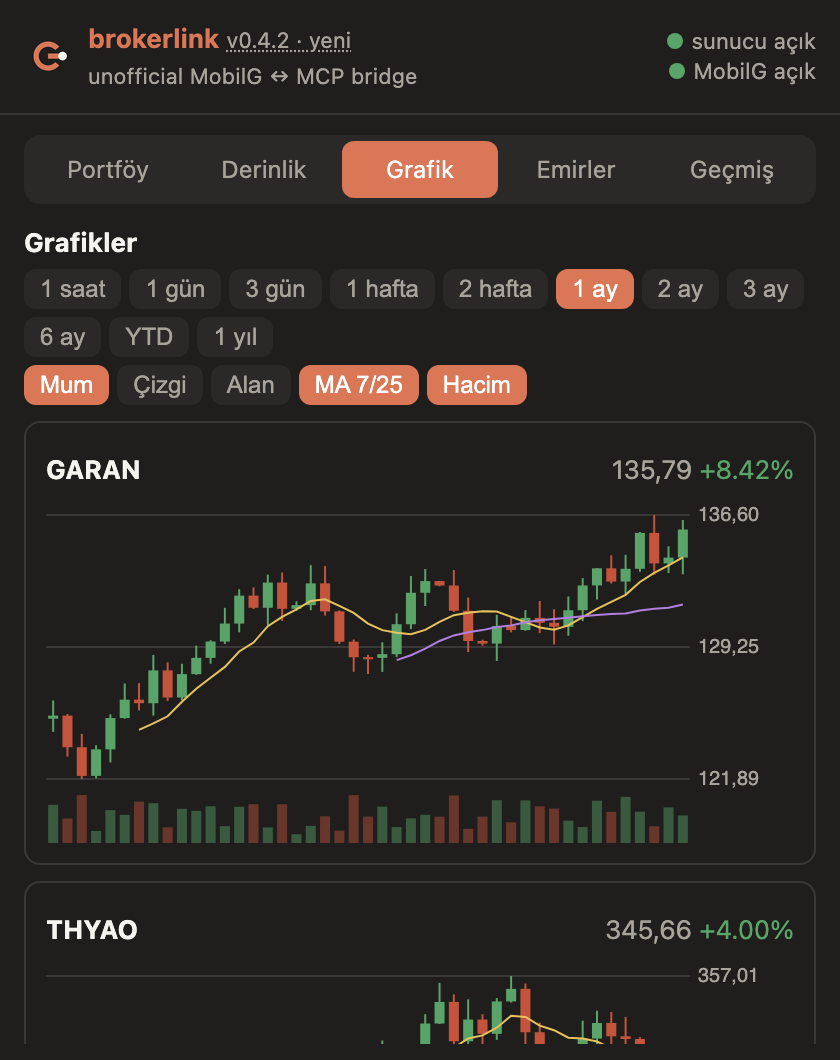
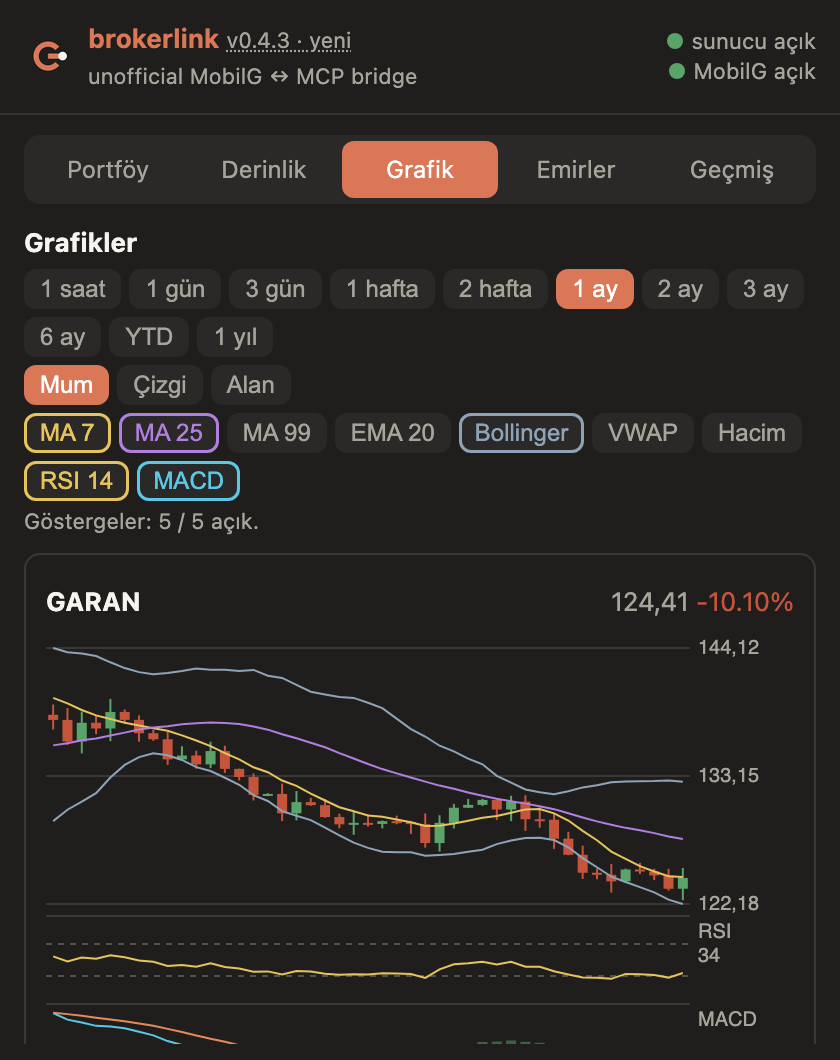
Charts: nine indicators with a five-at-once cap (0.4.3)

diff --git a/docs/index.html b/docs/index.html
@@ -3,7 +3,7 @@
 <link rel="canonical" href="https://nsozturk.github.io/brokerlink/">
 <meta property="og:title" content="brokerlink"><meta property="og:description" content="brokerlink is a free, open-source Chrome extension and local MCP server that lets Claude, Codex, Gemini and other AI tools read your own PhillipCapital MobilG brokerage accoun"><meta property="og:image" content="https://nsozturk.github.io/brokerlink/assets/banner.png"><meta property="og:url" content="https://nsozturk.github.io/brokerlink/"><meta property="og:site_name" content="brokerlink">
 <meta name="twitter:card" content="summary_large_image"><meta name="twitter:image" content="https://nsozturk.github.io/brokerlink/assets/banner.png">
-<script type="application/ld+json">{"@context": "https://schema.org", "@type": "SoftwareApplication", "name": "brokerlink", "description": "brokerlink is a free, open-source Chrome extension and local MCP server that lets Claude, Codex, Gemini and other AI tools read your own PhillipCapital MobilG brokerage account through your logged-in browser tab.", "applicationCategory": "DeveloperApplication", "operatingSystem": "macOS, Linux, Windows (Chrome, Firefox)", "offers": {"@type": "Offer", "price": "0", "priceCurrency": "USD"}, "license": "https://opensource.org/licenses/MIT", "codeRepository": "https://github.com/nsozturk/brokerlink", "softwareVersion": "0.4.2"}</script><script type="application/ld+json">{"@context": "https://schema.org", "@type": "FAQPage", "mainEntity": [{"@type": "Question", "name": "Do I have to copy tokens or cookies after logging in?", "acceptedAnswer": {"@type": "Answer", "text": "No. The extension reads the session inside the MobilG tab at the moment of each call, so it works as soon as you are logged in."}}, {"@type": "Question", "name": "Can an AI place trades with this?", "acceptedAnswer": {"@type": "Answer", "text": "An agent can only queue an order; a person must click Approve in the extension popup, and a popup switch turns orders off entirely."}}, {"@type": "Question", "name": "Can it withdraw or transfer money?", "acceptedAnswer": {"@type": "Answer", "text": "No. Money-out and transfer endpoints are on a deny list in both the daemon and the extension."}}, {"@type": "Question", "name": "Does it work with claude.ai or ChatGPT in the browser?", "acceptedAnswer": {"@type": "Answer", "text": "No. Cloud chat apps cannot reach a localhost server. Use a local client such as Claude Code, Codex, Antigravity (eski adıyla Gemini CLI), OpenCode, Cursor or Claude Desktop."}}, {"@type": "Question", "name": "Is it an alternative to Phillip Intelligence?", "acceptedAnswer": {"@type": "Answer", "text": "It complements it. Phillip Intelligence is the official MCP for claude.ai and ChatGPT; brokerlink is an unofficial read-first bridge for local AI clients."}}]}</script>
+<script type="application/ld+json">{"@context": "https://schema.org", "@type": "SoftwareApplication", "name": "brokerlink", "description": "brokerlink is a free, open-source Chrome extension and local MCP server that lets Claude, Codex, Gemini and other AI tools read your own PhillipCapital MobilG brokerage account through your logged-in browser tab.", "applicationCategory": "DeveloperApplication", "operatingSystem": "macOS, Linux, Windows (Chrome, Firefox)", "offers": {"@type": "Offer", "price": "0", "priceCurrency": "USD"}, "license": "https://opensource.org/licenses/MIT", "codeRepository": "https://github.com/nsozturk/brokerlink", "softwareVersion": "0.4.3"}</script><script type="application/ld+json">{"@context": "https://schema.org", "@type": "FAQPage", "mainEntity": [{"@type": "Question", "name": "Do I have to copy tokens or cookies after logging in?", "acceptedAnswer": {"@type": "Answer", "text": "No. The extension reads the session inside the MobilG tab at the moment of each call, so it works as soon as you are logged in."}}, {"@type": "Question", "name": "Can an AI place trades with this?", "acceptedAnswer": {"@type": "Answer", "text": "An agent can only queue an order; a person must click Approve in the extension popup, and a popup switch turns orders off entirely."}}, {"@type": "Question", "name": "Can it withdraw or transfer money?", "acceptedAnswer": {"@type": "Answer", "text": "No. Money-out and transfer endpoints are on a deny list in both the daemon and the extension."}}, {"@type": "Question", "name": "Does it work with claude.ai or ChatGPT in the browser?", "acceptedAnswer": {"@type": "Answer", "text": "No. Cloud chat apps cannot reach a localhost server. Use a local client such as Claude Code, Codex, Antigravity (eski adıyla Gemini CLI), OpenCode, Cursor or Claude Desktop."}}, {"@type": "Question", "name": "Is it an alternative to Phillip Intelligence?", "acceptedAnswer": {"@type": "Answer", "text": "It complements it. Phillip Intelligence is the official MCP for claude.ai and ChatGPT; brokerlink is an unofficial read-first bridge for local AI clients."}}]}</script>
 <style>:root{--bg:#090d16;--card:#0f172a;--accent:#d97757;--border:#1e293b;--fg:#e8e6df;--muted:#9aa3b2}
 *{box-sizing:border-box}body{margin:0;background:var(--bg);color:var(--fg);font:15px/1.6 -apple-system,system-ui,sans-serif}
 header{position:sticky;top:0;z-index:2;display:flex;gap:12px;align-items:center;padding:12px 20px;background:#0b101bee;border-bottom:1px solid var(--border)}
@@ -17,9 +17,9 @@ table{width:100%;border-collapse:collapse;display:block;overflow-x:auto}th,td{te
 .tour{display:flex;gap:20px;align-items:flex-start;flex-wrap:wrap}.tour img{width:280px;border-radius:12px;border:1px solid var(--border)}.tour div{flex:1;min-width:240px}.code{position:relative;margin:10px 0}.code pre{margin:0;padding:14px;background:var(--card);border:1px solid var(--border);border-radius:10px;overflow-x:auto}.code pre code{background:none;padding:0}
 .code button{position:absolute;right:8px;top:8px;background:var(--border);color:var(--fg);border:0;border-radius:6px;padding:3px 8px;cursor:pointer}
 @media(max-width:760px){aside{display:none}main{padding:16px}}</style></head><body>
-<header><b>brokerlink</b><span>v0.4.2</span><a href="https://github.com/nsozturk/brokerlink">GitHub</a></header>
+<header><b>brokerlink</b><span>v0.4.3</span><a href="https://github.com/nsozturk/brokerlink">GitHub</a></header>
 <div class="wrap"><aside><input id="q" placeholder="Search…" aria-label="Search"><a href="#overview">Overview</a><a href="#tour">Popup tour</a><a href="#quickstart">Quick start</a><a href="#clients">Connect an AI client</a><a href="#tools">MCP tools</a><a href="#catalog">Endpoint catalog</a><a href="#orders">Orders and safety</a><a href="#trading">Placing an order</a><a href="#architecture">Architecture</a><a href="#updates">Updates</a><a href="#troubleshooting">Troubleshooting</a><a href="#agents">AI agent integration</a><a href="#faq">FAQ</a></aside>
-<main><div class="banner-hero"><img src="assets/banner.png" onerror="this.onerror=null;this.src='../assets/banner.png'" alt="brokerlink banner"></div><section id="overview"><h2>Overview</h2><p>brokerlink is a free, open-source Chrome extension and local MCP server that lets Claude, Codex, Gemini and other AI tools read your own PhillipCapital MobilG brokerage account through your logged-in browser tab.</p><p><b>Unofficial.</b> Not affiliated with PhillipCapital. For your own account only. Not investment advice.</p><ul><li>Nothing to configure after login: the session is read inside your tab at call time.</li><li>The session never leaves the browser tab.</li><li>The tab is never opened or reloaded by brokerlink.</li><li>Every call is checked against one allowlist, twice.</li></ul></section><section id="tour"><h2>Popup tour</h2><p>The images use sample data, not a real account. The popup is in Turkish; each part is explained below.</p><h3>1. Portföy (portfolio)</h3><div class="tour"><img src="assets/screens/portfolio.png" alt="1. Portföy (portfolio)" loading="lazy"><div><p>Read live from your MobilG tab every time you open the popup.</p><ul><li><b>Top right:</b> two status dots: the local daemon ("sunucu") and the logged-in MobilG tab.</li><li><b>Table:</b> symbol, quantity (Adet), average cost (Maliyet), last price (Fiyat), today&#39;s change (Gün), and, in the tinted block, total profit/loss in TL (K/Z) and in percent against your cost.</li><li>The K/Z and % pair of each row has a border coloured on a scale from red (−15 % or worse) to green (+15 % or better).</li></ul></div></div><h3>2. Derinlik (depth)</h3><div class="tour"><img src="assets/screens/depth.png" alt="2. Derinlik (depth)" loading="lazy"><div><p>One card per position.</p><ul><li><b>Alış / Satış:</b> best bid and ask; <b>Makas</b> is the spread.</li><li><b>Bar:</b> where the price sits between today&#39;s floor (Taban) and ceiling (Tavan).</li><li><b>Kademeler (ladder):</b> up to ten bid and ask levels with quantity bars and a buy/sell balance, then the last trades (time, lots, price).</li><li><b>Derinlik grafiği (depth chart):</b> cumulative buy quantity to the left of the mid price and sell quantity to the right, as on crypto exchanges.<br><img src="assets/screens/depth-chart.png" alt="Cumulative depth chart" loading="lazy" style="margin-top:8px"></li><li>Levels and the depth chart appear only if your account has a depth licence; otherwise the card says so and shows the best bid/ask and the last trades.</li></ul></div></div><h3>3. Grafik (charts)</h3><div class="tour"><img src="assets/screens/charts.png" alt="3. Grafik (charts)" loading="lazy"><div><p>Candlestick charts for your positions, drawn from MobilG&#39;s own chart feed (the data behind its TradingView chart). Nothing is loaded from third parties.</p><ul><li><b>Period:</b> 1 saat (hour), 1 gün / 3 gün (days), 1 hafta / 2 hafta (weeks), 1 ay / 2 ay / 3 ay / 6 ay (months), YTD, 1 yıl (year). The bar size is chosen to fit the period.</li><li><b>Type:</b> Mum (candles), Çizgi (line), Alan (area).</li><li><b>MA 7/25:</b> two moving averages (yellow and purple). <b>Hacim:</b> volume bars at the bottom.</li><li>Your choices are remembered.</li><li><b>Top right of each card:</b> last price and the change over the shown range.</li></ul></div></div><h3>4. Emirler (orders): approval</h3><div class="tour"><img src="assets/screens/orders.png" alt="Emirler: approval" loading="lazy"><div><p>Orders queued by an AI client wait here.</p><ul><li><b>Card:</b> the exact order: side, symbol, quantity, price, type and total.</li><li><b>Onayla / Reddet:</b> approve sends it to MobilG; reject drops it. The AI is told which one you chose.</li><li><b>Emirler açık:</b> master switch. Off = every order tool is refused.</li><li>The tab label shows how many orders are waiting.</li></ul></div></div><h3>5. Emirler: Onaysız gönderim (send without approval)</h3><div class="tour"><img src="assets/screens/auto-send.png" alt="3. Emirler: Onaysız gönderim (send without approval)" loading="lazy"><div><p>Off by default. While on, small limit orders skip the approval click.</p><ul><li><b>Switch:</b> asks for confirmation and shows the minutes left.</li><li><b>Emir başına sınır:</b> largest single order in TL.</li><li><b>Günlük sınır:</b> total per day in TL.</li><li><b>Açık kalma süresi:</b> hours until it switches itself off. It also ends when the browser restarts.</li><li>Market orders and anything above the limits still wait for your click. The two limits also apply to approved orders.</li></ul></div></div><h3>6. Geçmiş (history)</h3><div class="tour"><img src="assets/screens/history.png" alt="4. Geçmiş (history)" loading="lazy"><div><p>Every order that passed through the extension, newest first, eight per page.</p><ul><li><b>✓ / ✕:</b> accepted by MobilG or not.</li><li><b>How:</b> sent with your approval, sent without approval, or rejected by you.</li><li><b>Last line:</b> time and MobilG's own answer, for example why an order was refused.</li></ul></div></div><h3>7. Yenilikler (what's new)</h3><div class="tour"><img src="assets/screens/news.png" alt="5. Yenilikler (what's new)" loading="lazy"><div><p>Opens when you click the version label next to the name. Release notes for each version and the time of the last update check. When a newer version exists a banner with a <b>Güncelle</b> (update) button appears at the top; if a release is marked as required, the popup locks until you update.</p></div></div></section><section id="quickstart"><h2>Quick start</h2><div class="code"><button onclick="navigator.clipboard.writeText(this.nextElementSibling.innerText);this.textContent='Copied'">Copy</button><pre><code>git clone https://github.com/nsozturk/brokerlink.git &amp;&amp; cd brokerlink
+<main><div class="banner-hero"><img src="assets/banner.png" onerror="this.onerror=null;this.src='../assets/banner.png'" alt="brokerlink banner"></div><section id="overview"><h2>Overview</h2><p>brokerlink is a free, open-source Chrome extension and local MCP server that lets Claude, Codex, Gemini and other AI tools read your own PhillipCapital MobilG brokerage account through your logged-in browser tab.</p><p><b>Unofficial.</b> Not affiliated with PhillipCapital. For your own account only. Not investment advice.</p><ul><li>Nothing to configure after login: the session is read inside your tab at call time.</li><li>The session never leaves the browser tab.</li><li>The tab is never opened or reloaded by brokerlink.</li><li>Every call is checked against one allowlist, twice.</li></ul></section><section id="tour"><h2>Popup tour</h2><p>The images use sample data, not a real account. The popup is in Turkish; each part is explained below.</p><h3>1. Portföy (portfolio)</h3><div class="tour"><img src="assets/screens/portfolio.png" alt="1. Portföy (portfolio)" loading="lazy"><div><p>Read live from your MobilG tab every time you open the popup.</p><ul><li><b>Top right:</b> two status dots: the local daemon ("sunucu") and the logged-in MobilG tab.</li><li><b>Table:</b> symbol, quantity (Adet), average cost (Maliyet), last price (Fiyat), today&#39;s change (Gün), and, in the tinted block, total profit/loss in TL (K/Z) and in percent against your cost.</li><li>The K/Z and % pair of each row has a border coloured on a scale from red (−15 % or worse) to green (+15 % or better).</li></ul></div></div><h3>2. Derinlik (depth)</h3><div class="tour"><img src="assets/screens/depth.png" alt="2. Derinlik (depth)" loading="lazy"><div><p>One card per position.</p><ul><li><b>Alış / Satış:</b> best bid and ask; <b>Makas</b> is the spread.</li><li><b>Bar:</b> where the price sits between today&#39;s floor (Taban) and ceiling (Tavan).</li><li><b>Kademeler (ladder):</b> up to ten bid and ask levels with quantity bars and a buy/sell balance, then the last trades (time, lots, price).</li><li><b>Derinlik grafiği (depth chart):</b> cumulative buy quantity to the left of the mid price and sell quantity to the right, as on crypto exchanges.<br><img src="assets/screens/depth-chart.png" alt="Cumulative depth chart" loading="lazy" style="margin-top:8px"></li><li>Levels and the depth chart appear only if your account has a depth licence; otherwise the card says so and shows the best bid/ask and the last trades.</li></ul></div></div><h3>3. Grafik (charts)</h3><div class="tour"><img src="assets/screens/charts.png" alt="3. Grafik (charts)" loading="lazy"><div><p>Candlestick charts for your positions, drawn from MobilG&#39;s own chart feed (the data behind its TradingView chart). Nothing is loaded from third parties.</p><ul><li><b>Period:</b> 1 saat (hour), 1 gün / 3 gün (days), 1 hafta / 2 hafta (weeks), 1 ay / 2 ay / 3 ay / 6 ay (months), YTD, 1 yıl (year). The bar size is chosen to fit the period.</li><li><b>Type:</b> Mum (candles), Çizgi (line), Alan (area).</li><li><b>Indicators:</b> MA 7, MA 25, MA 99, EMA 20, Bollinger Bands and VWAP on the price; Hacim (volume), RSI 14 and MACD in their own strips below. Up to five can be on at once; each chip takes the colour of its line.</li><li>Your choices are remembered.</li><li><b>Top right of each card:</b> last price and the change over the shown range.</li></ul></div></div><h3>4. Emirler (orders): approval</h3><div class="tour"><img src="assets/screens/orders.png" alt="Emirler: approval" loading="lazy"><div><p>Orders queued by an AI client wait here.</p><ul><li><b>Card:</b> the exact order: side, symbol, quantity, price, type and total.</li><li><b>Onayla / Reddet:</b> approve sends it to MobilG; reject drops it. The AI is told which one you chose.</li><li><b>Emirler açık:</b> master switch. Off = every order tool is refused.</li><li>The tab label shows how many orders are waiting.</li></ul></div></div><h3>5. Emirler: Onaysız gönderim (send without approval)</h3><div class="tour"><img src="assets/screens/auto-send.png" alt="3. Emirler: Onaysız gönderim (send without approval)" loading="lazy"><div><p>Off by default. While on, small limit orders skip the approval click.</p><ul><li><b>Switch:</b> asks for confirmation and shows the minutes left.</li><li><b>Emir başına sınır:</b> largest single order in TL.</li><li><b>Günlük sınır:</b> total per day in TL.</li><li><b>Açık kalma süresi:</b> hours until it switches itself off. It also ends when the browser restarts.</li><li>Market orders and anything above the limits still wait for your click. The two limits also apply to approved orders.</li></ul></div></div><h3>6. Geçmiş (history)</h3><div class="tour"><img src="assets/screens/history.png" alt="4. Geçmiş (history)" loading="lazy"><div><p>Every order that passed through the extension, newest first, eight per page.</p><ul><li><b>✓ / ✕:</b> accepted by MobilG or not.</li><li><b>How:</b> sent with your approval, sent without approval, or rejected by you.</li><li><b>Last line:</b> time and MobilG's own answer, for example why an order was refused.</li></ul></div></div><h3>7. Yenilikler (what's new)</h3><div class="tour"><img src="assets/screens/news.png" alt="5. Yenilikler (what's new)" loading="lazy"><div><p>Opens when you click the version label next to the name. Release notes for each version and the time of the last update check. When a newer version exists a banner with a <b>Güncelle</b> (update) button appears at the top; if a release is marked as required, the popup locks until you update.</p></div></div></section><section id="quickstart"><h2>Quick start</h2><div class="code"><button onclick="navigator.clipboard.writeText(this.nextElementSibling.innerText);this.textContent='Copied'">Copy</button><pre><code>git clone https://github.com/nsozturk/brokerlink.git &amp;&amp; cd brokerlink
 pip install -r requirements.txt
 python3 server/brokerlink.py serve</code></pre></div><ol><li>Chrome, Edge, Brave: <code>chrome://extensions</code> → Developer mode → Load unpacked → <code>extension/</code>. Firefox 121+: build with <code>python3 scripts/package.py</code>, load <code>dist/brokerlink-firefox-*.xpi</code> from <code>about:debugging</code>, then click <b>İzin ver</b> in the popup. Ready-made zip, crx and xpi files are attached to each <a href="https://github.com/nsozturk/brokerlink/releases">release</a>.</li><li>Open MobilG and log in as usual.</li><li>Register the stdio MCP server in your client.</li></ol></section><section id="clients"><h2>Connect an AI client</h2><div class="code"><button onclick="navigator.clipboard.writeText(this.nextElementSibling.innerText);this.textContent='Copied'">Copy</button><pre><code>claude mcp add --scope user brokerlink -- python3 /path/server/brokerlink.py mcp</code></pre></div><div class="code"><button onclick="navigator.clipboard.writeText(this.nextElementSibling.innerText);this.textContent='Copied'">Copy</button><pre><code>codex mcp add brokerlink -- python3 /path/server/brokerlink.py mcp</code></pre></div><div class="code"><button onclick="navigator.clipboard.writeText(this.nextElementSibling.innerText);this.textContent='Copied'">Copy</button><pre><code># Antigravity (eski adıyla Gemini CLI)
 agy mcp add brokerlink python3 /path/server/brokerlink.py mcp</code></pre></div><div class="code"><button onclick="navigator.clipboard.writeText(this.nextElementSibling.innerText);this.textContent='Copied'">Copy</button><pre><code>// Antigravity (eski adıyla Gemini CLI): ~/.gemini/settings.json

diff --git a/extension/popup.js b/extension/popup.js
@@ -157,31 +157,55 @@ function renderDepth() {
 chrome.storage.local.get("depthView").then(o => { if (o.depthView) depthView = o.depthView; });
 
 // ---- charts (drawn from MobilG's chart feed; portfolio holdings only)
-let holdings = [], chartOpt = { range: "1A", type: "candle", ma: true, vol: true };
+let holdings = [], chartOpt = { range: "1A", type: "candle", ind: ["ma7", "ma25", "vol"] };
 // Period shown -> [label, bar size, bars shown, days to fetch]. Counted in bars, so a range still shows the
 // last session when the market is closed. YTD is cut by date instead.
 const RANGES = { "1S": ["1 saat", "1", 60, 3], "1G": ["1 gün", "5", 100, 5], "3G": ["3 gün", "15", 100, 8], "1H": ["1 hafta", "30", 85, 12],
   "2H": ["2 hafta", "60", 85, 22], "1A": ["1 ay", "240", 45, 50], "2A": ["2 ay", "240", 90, 95], "3A": ["3 ay", "1D", 65, 130],
   "6A": ["6 ay", "1D", 130, 230], "YTD": ["YTD", "1D", 260, 400], "1Y": ["1 yıl", "1D", 250, 420] };
 const TYPES = [["candle", "Mum"], ["line", "Çizgi"], ["area", "Alan"]];
+// Indicators: [key, label, colour]. Overlays draw on the price; vol / rsi / macd get their own strip.
+const INDS = [["ma7", "MA 7", "#e6c35c"], ["ma25", "MA 25", "#b07fe0"], ["ma99", "MA 99", "#5cc8e6"], ["ema20", "EMA 20", "#e68a5c"],
+  ["boll", "Bollinger", "#8fa3b8"], ["vwap", "VWAP", "#f5f4ef"], ["vol", "Hacim", ""], ["rsi", "RSI 14", "#e6c35c"], ["macd", "MACD", "#5cc8e6"]];
+const MAX_IND = 5, WARM = 100;      // at most five at once: more than that is unreadable in a 400 px popup
 const sma = (a, n) => a.map((_, i) => i < n - 1 ? null : a.slice(i - n + 1, i + 1).reduce((x, y) => x + y, 0) / n);
-function draw(cv, d) {
-  const dpr = window.devicePixelRatio || 1, W = cv.clientWidth, H = cv.clientHeight, g = cv.getContext("2d");
+const ema = (a, n) => { const k = 2 / (n + 1); let e = a[0]; return a.map((v, i) => (e = i ? v * k + e * (1 - k) : v)); };
+function indicators(d, on) {
+  const o = {}, c = d.c;
+  if (on("ma7")) o.ma7 = sma(c, 7);
+  if (on("ma25")) o.ma25 = sma(c, 25);
+  if (on("ma99")) o.ma99 = sma(c, 99);
+  if (on("ema20")) o.ema20 = ema(c, 20);
+  if (on("boll")) {
+    const m = sma(c, 20), sd = c.map((_, i) => i < 19 ? null : Math.sqrt(c.slice(i - 19, i + 1).reduce((a, v) => a + (v - m[i]) ** 2, 0) / 20));
+    o.bollUp = m.map((v, i) => v === null ? null : v + 2 * sd[i]); o.bollLo = m.map((v, i) => v === null ? null : v - 2 * sd[i]);
+  }
+  if (on("vwap")) { let pv = 0, vv = 0; o.vwap = c.map((v, i) => { pv += (d.h[i] + d.l[i] + v) / 3 * d.v[i]; vv += d.v[i]; return vv ? pv / vv : null; }); }
+  if (on("rsi")) {
+    let g = 0, l = 0; o.rsi = c.map((v, i) => {
+      if (!i) return null;
+      const ch = v - c[i - 1], up = Math.max(ch, 0), dn = Math.max(-ch, 0);
+      if (i <= 14) { g += up / 14; l += dn / 14; return i < 14 ? null : 100 - 100 / (1 + g / (l || 1e-9)); }
+      g = (g * 13 + up) / 14; l = (l * 13 + dn) / 14; return 100 - 100 / (1 + g / (l || 1e-9));
+    });
+  }
+  if (on("macd")) { const e12 = ema(c, 12), e26 = ema(c, 26); o.macd = e12.map((v, i) => v - e26[i]); o.signal = ema(o.macd, 9); }
+  return o;
+}
+function draw(cv, d, ind, on) {
+  const strips = ["vol", "rsi", "macd"].filter(on), SH = { vol: 26, rsi: 40, macd: 40 };
+  const H = 140 + strips.reduce((a, k) => a + SH[k] + 4, 0);
+  cv.style.height = H + "px";
+  const dpr = window.devicePixelRatio || 1, W = cv.clientWidth, g = cv.getContext("2d");
   cv.width = W * dpr; cv.height = H * dpr; g.scale(dpr, dpr);
-  const n = d.c.length, pad = 52, volH = chartOpt.vol && d.v ? 26 : 0, ph = H - volH - 12;
-  const hi = Math.max(...d.h), lo = Math.min(...d.l), w = (W - pad) / n;
-  const y = v => 6 + (hi - v) / ((hi - lo) || 1) * ph, x = i => i * w + w / 2;
-  g.font = "10px -apple-system, sans-serif"; g.lineWidth = 1;
+  const n = d.c.length, pad = 52, ph = 128, w = (W - pad) / n, x = i => i * w + w / 2;
+  const hi = Math.max(...d.h, ...(ind.bollUp || []).filter(v => v !== null)), lo = Math.min(...d.l, ...(ind.bollLo || []).filter(v => v !== null));
+  const y = v => 6 + (hi - v) / ((hi - lo) || 1) * ph;
+  const line = (arr, col, yf, width = 1) => { g.beginPath(); let st = false; arr.forEach((v, i) => { if (v === null || v === undefined) return; st ? g.lineTo(x(i), yf(v)) : g.moveTo(x(i), yf(v)); st = true; }); g.strokeStyle = col; g.lineWidth = width; g.stroke(); g.lineWidth = 1; };
+  g.font = "10px -apple-system, sans-serif";
   for (const v of [hi, (hi + lo) / 2, lo]) {
     g.strokeStyle = "#3a3836"; g.beginPath(); g.moveTo(0, y(v)); g.lineTo(W - pad, y(v)); g.stroke();
     g.fillStyle = "#a8a49b"; g.fillText(tl(v), W - pad + 4, y(v) + 3);
-  }
-  if (volH) {
-    const vm = Math.max(...d.v, 1);
-    for (let i = 0; i < n; i++) {
-      g.fillStyle = d.c[i] >= d.o[i] ? "rgba(90,164,105,.45)" : "rgba(196,85,60,.45)";
-      const bh = d.v[i] / vm * (volH - 2); g.fillRect(x(i) - Math.max(1, w * 0.35), H - bh, Math.max(2, w * 0.7), bh);
-    }
   }
   if (chartOpt.type === "candle") {
     for (let i = 0; i < n; i++) {
@@ -194,43 +218,70 @@ function draw(cv, d) {
     g.strokeStyle = "#d97757"; g.lineWidth = 1.6; g.stroke(); g.lineWidth = 1;
     if (chartOpt.type === "area") { g.lineTo(x(n - 1), 6 + ph); g.lineTo(x(0), 6 + ph); g.closePath(); g.fillStyle = "rgba(217,119,87,.18)"; g.fill(); }
   }
-  if (chartOpt.ma) for (const [len, col] of [[7, "#e6c35c"], [25, "#b07fe0"]]) {
-    g.beginPath(); let started = false;
-    sma(d.c, len).forEach((v, i) => { if (v === null) return; started ? g.lineTo(x(i), y(v)) : g.moveTo(x(i), y(v)); started = true; });
-    g.strokeStyle = col; g.stroke();
+  const col = k => INDS.find(i => i[0] === k)[2];
+  for (const k of ["ma7", "ma25", "ma99", "ema20", "vwap"]) if (ind[k]) line(ind[k], col(k), y);
+  if (ind.bollUp) { line(ind.bollUp, col("boll"), y); line(ind.bollLo, col("boll"), y); }
+  let top = 6 + ph + 8;
+  for (const k of strips) {
+    const h = SH[k], base = top + h;
+    g.strokeStyle = "#3a3836"; g.beginPath(); g.moveTo(0, top - 2); g.lineTo(W - pad, top - 2); g.stroke();
+    g.fillStyle = "#a8a49b"; g.fillText(k === "vol" ? "Hacim" : k === "rsi" ? "RSI" : "MACD", W - pad + 4, top + 9);
+    if (k === "vol") {
+      const vm = Math.max(...d.v, 1);
+      for (let i = 0; i < n; i++) { g.fillStyle = d.c[i] >= d.o[i] ? "rgba(90,164,105,.5)" : "rgba(196,85,60,.5)"; const bh = d.v[i] / vm * h; g.fillRect(x(i) - Math.max(1, w * 0.35), base - bh, Math.max(2, w * 0.7), bh); }
+    } else if (k === "rsi") {
+      const yr = v => top + (100 - v) / 100 * h;
+      for (const lv of [70, 30]) { g.strokeStyle = "#55524d"; g.setLineDash([3, 3]); g.beginPath(); g.moveTo(0, yr(lv)); g.lineTo(W - pad, yr(lv)); g.stroke(); g.setLineDash([]); }
+      line(ind.rsi, col("rsi"), yr);
+      const last = ind.rsi[n - 1]; if (last !== null) g.fillText(last.toFixed(0), W - pad + 4, top + 21);
+    } else {
+      const hist = ind.macd.map((v, i) => v - ind.signal[i]), m = Math.max(...ind.macd.map(Math.abs), ...ind.signal.map(Math.abs), ...hist.map(Math.abs), 1e-9);
+      const ym = v => top + h / 2 - v / m * (h / 2);
+      for (let i = 0; i < n; i++) { g.fillStyle = hist[i] >= 0 ? "rgba(90,164,105,.5)" : "rgba(196,85,60,.5)"; g.fillRect(x(i) - Math.max(1, w * 0.35), Math.min(ym(0), ym(hist[i])), Math.max(2, w * 0.7), Math.abs(ym(hist[i]) - ym(0))); }
+      line(ind.macd, col("macd"), ym); line(ind.signal, "#e68a5c", ym);
+    }
+    top = base + 4;
   }
 }
-function chip(label, on, click) {
+function chip(label, on, click, color) {
   const b = Object.assign(document.createElement("button"), { className: "chip" + (on ? " on" : ""), textContent: label });
-  b.onclick = async () => { click(); await chrome.storage.local.set({ chartOpt }); renderCharts(); };
+  if (on && color) b.style.cssText = `background:#2a2927;color:${color};box-shadow:inset 0 0 0 1.5px ${color}`;
+  b.onclick = async () => { if (click() === false) return; await chrome.storage.local.set({ chartOpt }); renderCharts(); };
   return b;
 }
 async function renderCharts() {
-  const bar = $("chart-bar"); bar.innerHTML = "";
   if (!RANGES[chartOpt.range]) chartOpt.range = "1A";
+  if (!Array.isArray(chartOpt.ind)) chartOpt.ind = ["ma7", "ma25", "vol"];
+  const on = k => chartOpt.ind.includes(k), bar = $("chart-bar"); bar.innerHTML = "";
   for (const [k, [label]] of Object.entries(RANGES)) bar.append(chip(label, chartOpt.range === k, () => { chartOpt.range = k; }));
   bar.append(document.createElement("br"));
   for (const [v, label] of TYPES) bar.append(chip(label, chartOpt.type === v, () => { chartOpt.type = v; }));
-  bar.append(chip("MA 7/25", chartOpt.ma, () => { chartOpt.ma = !chartOpt.ma; }), chip("Hacim", chartOpt.vol, () => { chartOpt.vol = !chartOpt.vol; }));
+  bar.append(document.createElement("br"));
+  for (const [k, label, color] of INDS) bar.append(chip(label, on(k), () => {
+    if (on(k)) chartOpt.ind = chartOpt.ind.filter(i => i !== k);
+    else if (chartOpt.ind.length >= MAX_IND) { $("ind-note").textContent = `Aynı anda en çok ${MAX_IND} gösterge açılabilir; önce birini kapat.`; return false; }
+    else chartOpt.ind.push(k);
+  }, color || "#a8a49b"));
+  $("ind-note").textContent = `Göstergeler: ${chartOpt.ind.length} / ${MAX_IND} açık.`;
   const box = $("charts");
   if (!holdings.length) { box.innerHTML = "<small>Pozisyon yok.</small>"; return; }
   box.innerHTML = "";
   const [, resolution, bars, days] = RANGES[chartOpt.range];
   for (const h of holdings) {
     const el = document.createElement("div"); el.className = "card";
-    const sym = esc(String(h.symbolWithGroup || h.imkb).replace(/\(.*\)/, ""));
-    el.innerHTML = `<div class="row"><b style="color:var(--fg)">${sym}</b><span class="chg"></span></div><canvas></canvas>`;
+    el.innerHTML = `<div class="row"><b style="color:var(--fg)">${name(h)}</b><span class="chg"></span></div><canvas></canvas>`;
     box.append(el);
-    send({ type: "chart", symbol: h.foreksCode, resolution, days, bars: bars + 25 }).then(r => {
+    send({ type: "chart", symbol: h.foreksCode, resolution, days: days * 2, bars: bars + WARM }).then(r => {
       if (!r || r.error) { el.querySelector("canvas").replaceWith(Object.assign(document.createElement("small"), { textContent: (r && r.error) || "Grafik verisi yok." })); return; }
       const num = a => (a || []).map(Number), all = { o: num(r.data.o), h: num(r.data.h), l: num(r.data.l), c: num(r.data.c), v: num(r.data.v) };
       let keep = bars;
       if (chartOpt.range === "YTD") { const jan1 = new Date(new Date().getFullYear(), 0, 1) / 1000; keep = Math.max(2, num(r.data.t).filter(t => t >= jan1).length); }
-      // ponytail: the moving averages are computed on the visible bars only, so their first 6 / 24 points are missing.
-      const d = Object.fromEntries(Object.entries(all).map(([k, a]) => [k, a.slice(-keep)]));
+      // Indicators are computed on every fetched bar (WARM extra ones) and only then cut to the visible range.
+      const cut = o => Object.fromEntries(Object.entries(o).map(([k, a]) => [k, a.slice(-keep)]));
+      const d = cut(all), ind = cut(indicators(all, on));
       const chg = (d.c[d.c.length - 1] / d.o[0] - 1) * 100;
       el.querySelector(".chg").innerHTML = `${tl(d.c[d.c.length - 1])} <span class="${cls(chg)}">${chg >= 0 ? "+" : ""}${chg.toFixed(2)}%</span>`;
-      draw(el.querySelector("canvas"), d);
+      draw(el.querySelector("canvas"), d, ind, on);
     });
   }
 }

diff --git a/extension/popup.html b/extension/popup.html
@@ -58,8 +58,9 @@
   <div data-p="charts" hidden>
     <b>Grafikler</b>
     <div id="chart-bar"></div>
+    <small id="ind-note"></small>
     <div id="charts"><small>Yükleniyor…</small></div>
-    <small>Sarı: MA 7 · Mor: MA 25 · Alt çubuklar: hacim. Veri MobilG'nin kendi grafik akışından gelir.</small>
+    <small>Veri MobilG'nin kendi grafik akışından gelir.</small>
   </div>
 
   <div data-p="orders" hidden>

diff --git a/scripts/make_screenshots.py b/scripts/make_screenshots.py
@@ -29,7 +29,7 @@ const S = %s, REL = %s, TAB = new URLSearchParams(location.search).get('tab') ||
 const AUTO = new URLSearchParams(location.search).get('auto') === '1';
 Date.now = () => %d;
 const DV = new URLSearchParams(location.search).get('dv');
-const local = {depthView: DV || 'ladder', tab: TAB, history: S.history, seenVersion: '0'}, session = {pending: TAB === 'orders' && !AUTO ? S.pending : [], autoUntil: AUTO ? Date.now() + 3 * 3600e3 : 0};
+const local = {chartOpt: {range: '1A', type: 'candle', ind: ['ma7','ma25','boll','rsi','macd']}, depthView: DV || 'ladder', tab: TAB, history: S.history, seenVersion: '0'}, session = {pending: TAB === 'orders' && !AUTO ? S.pending : [], autoUntil: AUTO ? Date.now() + 3 * 3600e3 : 0};
 const store = o => ({get: async k => o, set: async v => Object.assign(o, v)});
 window.chrome = {storage: {local: store(local), session: store(session)},
   permissions: {contains: async () => true, request: async () => true},

diff --git a/CHANGELOG.md b/CHANGELOG.md
@@ -1,5 +1,8 @@
 # Changelog
 
+## 0.4.3
+- Chart indicators: MA 7/25/99, EMA 20, Bollinger Bands, VWAP, volume, RSI 14, MACD; up to five at once.
+
 ## 0.4.2
 - Depth tab: ten-level ladder, last-trades tape, and a cumulative depth chart (levels need a depth licence).
 
